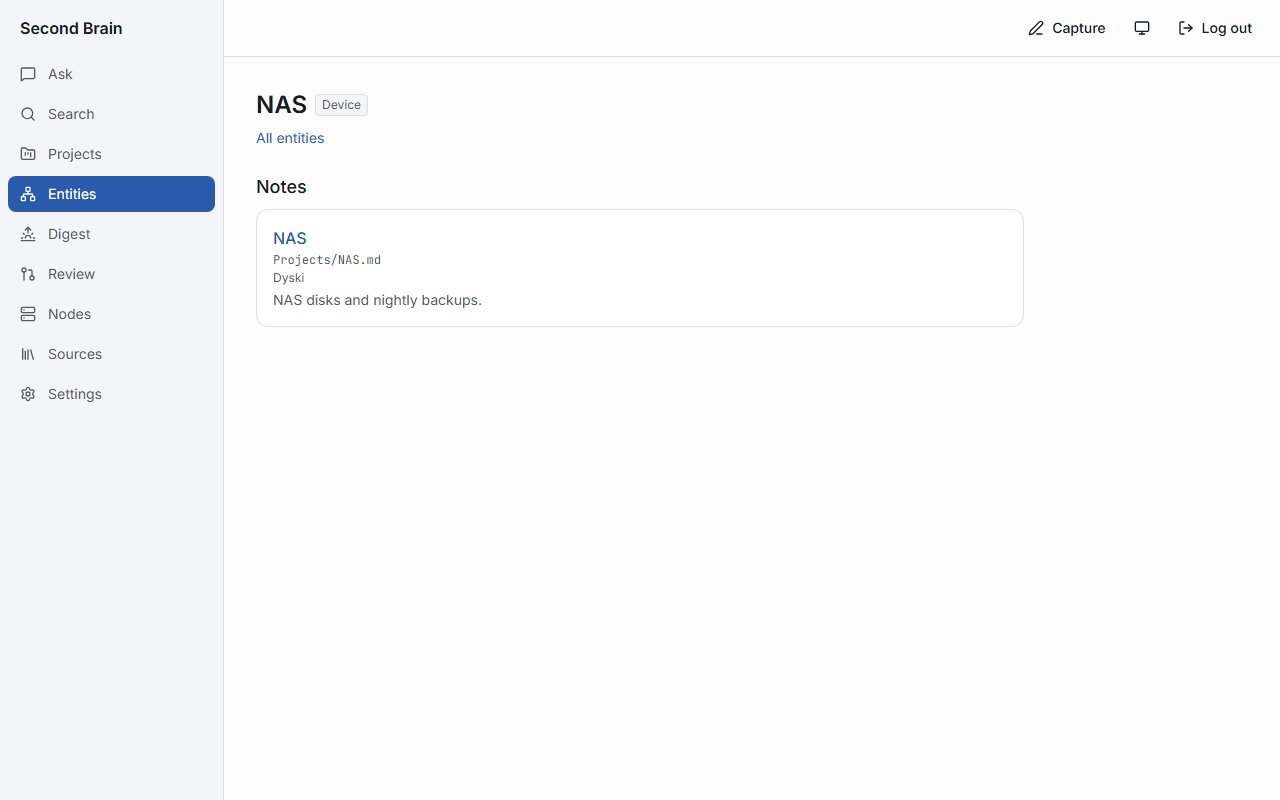
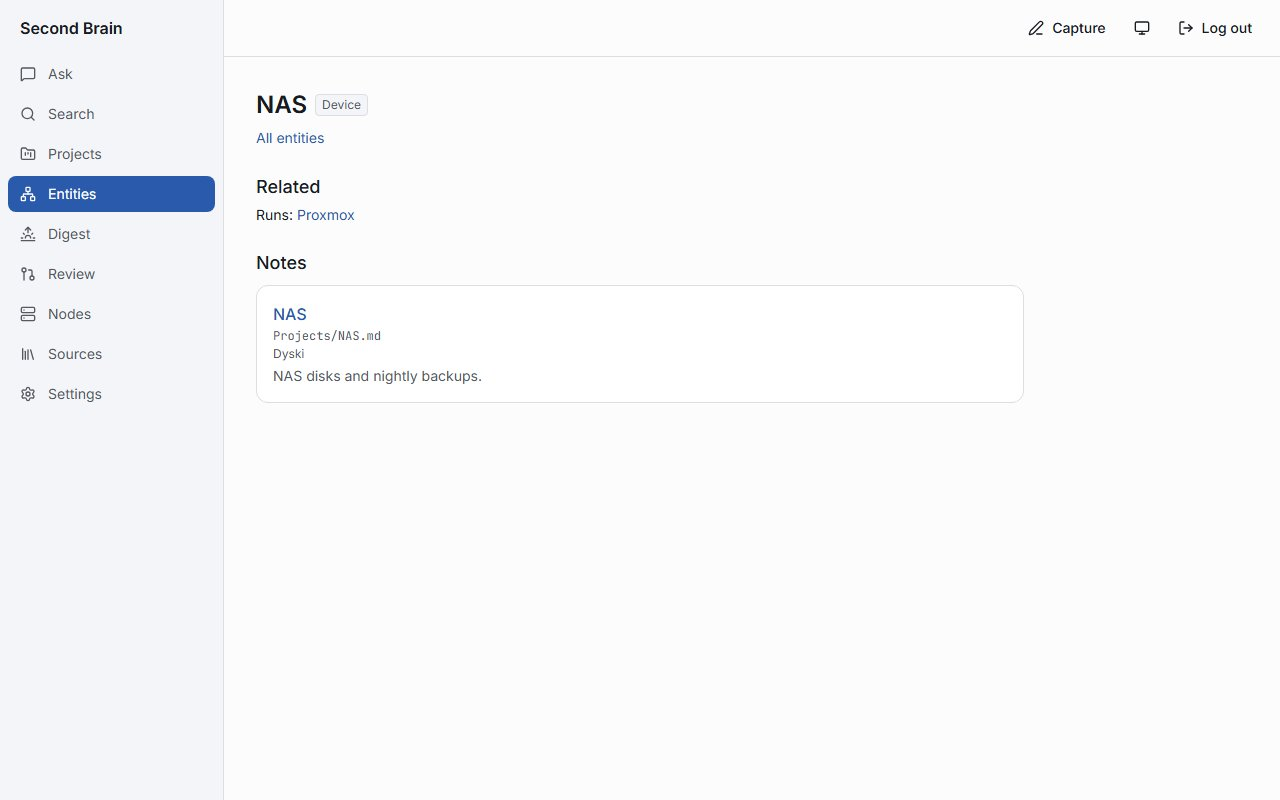
test(e2e): show related entities in entity shot
The entity screenshot now accepts the "Proxmox runs on NAS" link first,
as graph.spec.ts does, so the page shows its Related section.
entity.jpg is regenerated; review.jpg came out byte-identical.

Changed region(s): [[0.1875, 0.2188, 0.375, 0.5]]

diff --git a/web/tests/e2e/readme-screenshots.spec.ts b/web/tests/e2e/readme-screenshots.spec.ts
@@ -125,9 +125,19 @@ test("entity page", async ({ page }) => {
       await expect(card).toBeHidden();
     }
   }
+  // Accept the "Proxmox runs on NAS" link too (as graph.spec.ts does), so the page shows the
+  // related entities; an earlier run may have accepted it already.
+  await page.getByRole("tab", { name: /Links/ }).click();
+  const link = page.getByRole("button", { name: "Accept: Proxmox runs on NAS" });
+  await link.waitFor({ timeout: 15_000 }).catch(() => undefined);
+  if (await link.isVisible().catch(() => false)) {
+    await link.click();
+    await expect(link).toBeHidden();
+  }
   await page.goto("/entities?type=device");
   await page.getByRole("link", { name: /^NAS/ }).click();
   await expect(page.getByRole("heading", { name: "NAS", level: 1 })).toBeVisible();
   await expect(page.getByText("Projects/NAS.md")).toBeVisible();
+  await expect(page.getByText(/Runs:\s*Proxmox/)).toBeVisible();
   await page.screenshot({ path: "../docs/images/readme/entity.jpg", type: "jpeg", quality: 85 });
 });
